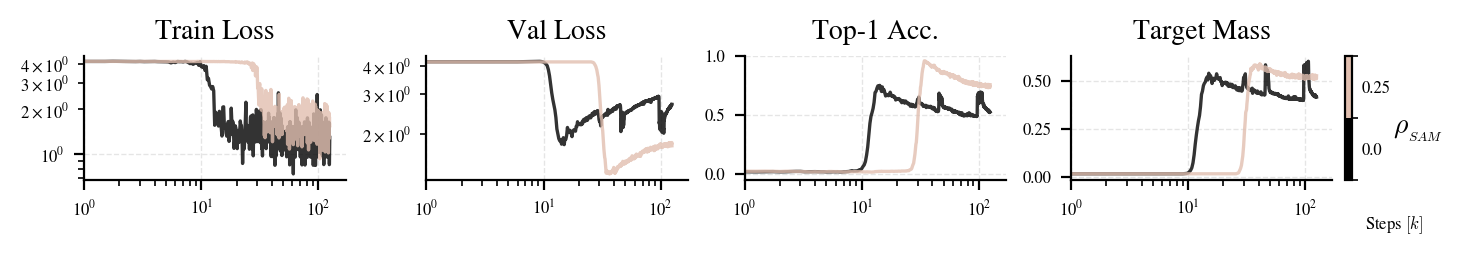
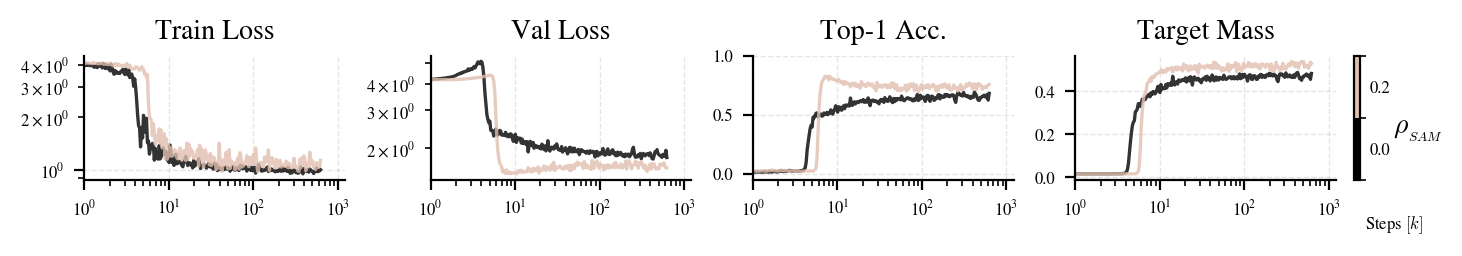
Fix longer run

diff --git a/scripts/induction_head.py b/scripts/induction_head.py
@@ -88,6 +88,13 @@ def main():
     nprints = config['n_prints']
     print_every = max(1,tot_global_steps // nprints)
     global_step = 0
+    print_steps = np.unique(np.logspace(-0.01, np.log10(tot_global_steps), num=nprints).astype(int))
+
+    # tot_global_steps = config['num_epochs']*len(train_dataloader)
+    # nprints = config['n_prints']
+    # print_every = max(1,tot_global_steps // nprints)
+    # global_step = 0
+    # print_steps = np.unique(np.logspace(-0.01, np.log10(tot_global_steps), num=nprints).astype(int))
 
 
     # Dictionary to store process
@@ -125,7 +132,8 @@ def main():
             # loss.backward()
 
             # Check for print condition to evaluate and print
-            if global_step % print_every == 0:
+            measure_condition = global_step in print_steps
+            if measure_condition:
                 summary['step'].append(global_step)
                 val_loss , val_accuracy , target_mass = evaluate_model(model, val_loader, device, CE_loss)
 
